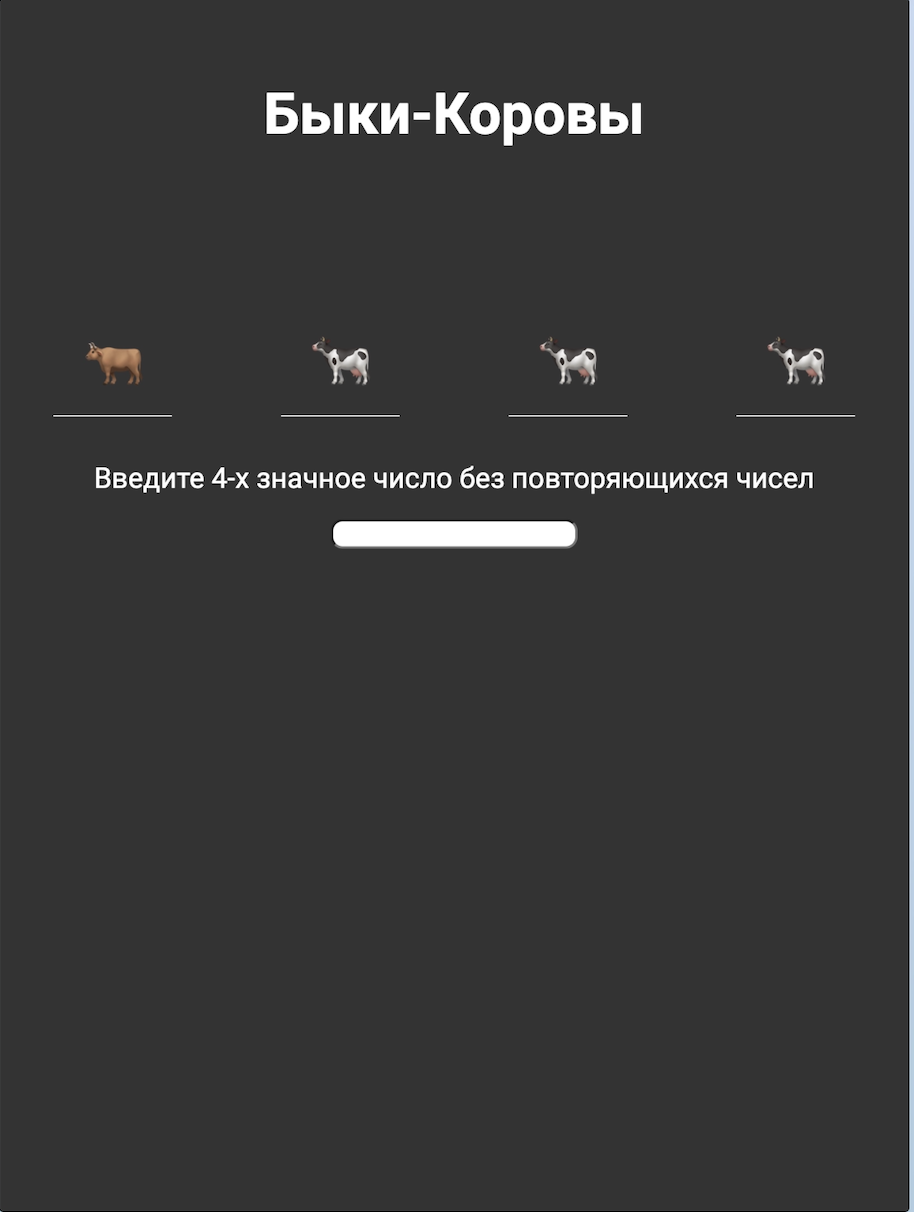
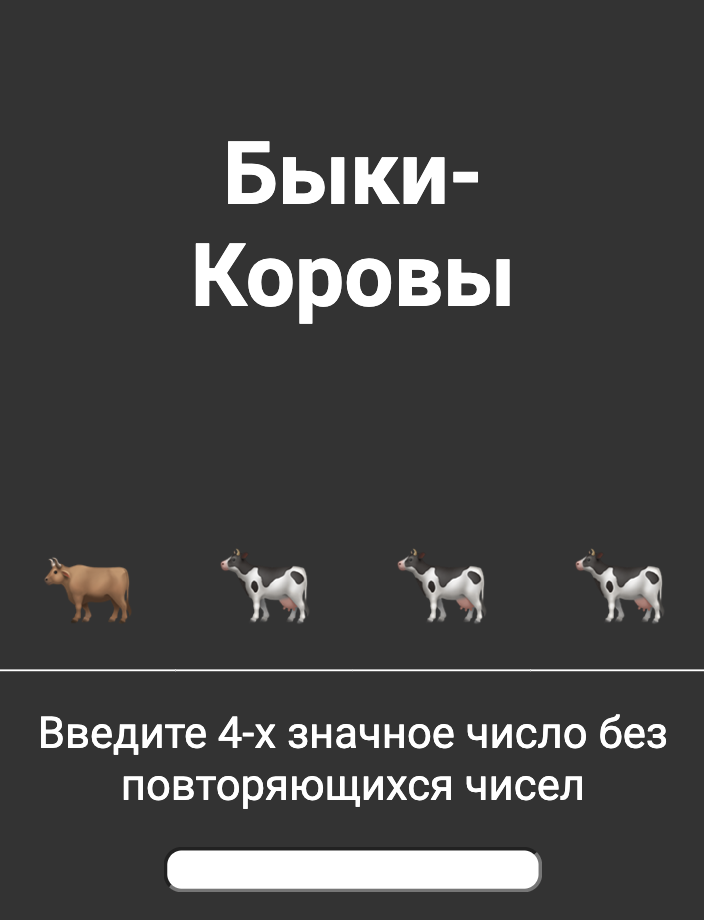
added navifation

diff --git a/src/App.jsx b/src/App.jsx
@@ -1,6 +1,7 @@
 import "@mantine/core/styles.css";
-import { MantineProvider, Container } from "@mantine/core";
-import Gallery from "./components/Gallery";
+import { Flex, Group, MantineProvider } from "@mantine/core";
+import GallerySection from "./sections/GallerySection";
+import NavBar from "./components/NavBar";
 
 function App() {
   let list = [
@@ -19,9 +20,15 @@ function App() {
   ];
   return (
     <MantineProvider defaultColorScheme="dark">
-      <Container size="xs">
-        <Gallery data={list} />
-      </Container>
+      <Flex h="100vh" direction="column">
+        <Group size="md" justify="center" gap="md">
+          <NavBar
+            section_1={<GallerySection data={list} />}
+            section_2={<GallerySection data={list} />}
+            section_3={<GallerySection data={list} />}
+          />
+        </Group>
+      </Flex>
     </MantineProvider>
   );
 }

diff --git a/src/components/NavBar.jsx b/src/components/NavBar.jsx
@@ -1,0 +1,17 @@
+import { Tabs } from "@mantine/core";
+import { IconHome } from "@tabler/icons-react";
+
+export default function NavBar({ section_1, section_2, section_3 }) {
+  return (
+    <Tabs defaultValue="1">
+      <Tabs.List justify="space-around">
+        <Tabs.Tab leftSection={<IconHome />} value="1"></Tabs.Tab>
+        <Tabs.Tab leftSection={<IconHome />} value="2"></Tabs.Tab>
+        <Tabs.Tab leftSection={<IconHome />} value="3"></Tabs.Tab>
+      </Tabs.List>
+      <Tabs.Panel value="1">{section_1}</Tabs.Panel>
+      <Tabs.Panel value="2">{section_2}</Tabs.Panel>
+      <Tabs.Panel value="3">{section_3}</Tabs.Panel>
+    </Tabs>
+  );
+}

diff --git a/src/components/Gallery.jsx b/src/components/Gallery.jsx
@@ -1,14 +1,16 @@
-import { useState } from "react";
 import GalleryPart from "./GalleryPart";
 import { Group } from "@mantine/core";
 
 export default function Gallery({ data }) {
-  const [gallery, setGallery] = useState(data);
-
   return (
     <Group justify="center" align="center">
-      {gallery.map((el) => (
-        <GalleryPart src_link={el.src_link} title={el.title} key={el.index} src_href={el.src_href}/>
+      {data.map((el) => (
+        <GalleryPart
+          src_link={el.src_link}
+          title={el.title}
+          key={el.index}
+          src_href={el.src_href}
+        />
       ))}
     </Group>
   );

diff --git a/src/sections/GallerySection.jsx b/src/sections/GallerySection.jsx
@@ -1,0 +1,12 @@
+import { Center, Container } from "@mantine/core";
+import Gallery from "../components/Gallery";
+
+export default function GallerySection({ data }) {
+  return (
+    <Center w="100vw">
+      <Container>
+        <Gallery data={data} />
+      </Container>
+    </Center>
+  );
+}
